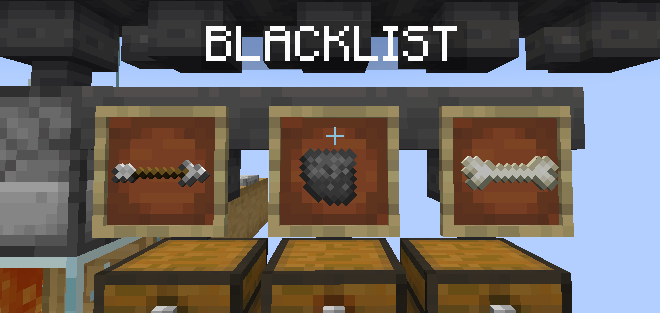
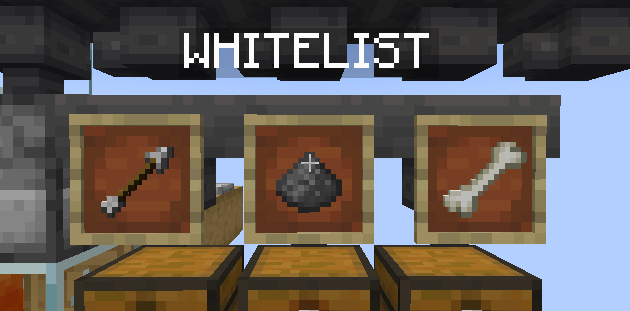
GITBOOK-474: Categoria contas

diff --git a/contas/troca-de-nick.md b/contas/troca-de-nick.md
@@ -1,0 +1,43 @@
+---
+description: >-
+  Mudança de identidade as vezes torna-se necessário, mas atenção as variáveis
+  que podem surgir para que seu progresso não seja mantido em um nick
+  indesejável.
+---
+
+# 🆔 Troca de Nick
+
+## Variáveis
+
+Servidor atualmente atua com 4 diferentes formas, gerando 4 tipos de identificação de contas:
+
+* Java (Original)
+* Java (Pirata)
+* Bedrock
+
+Verifique abaixo, qual caso se enquadra na sua modificação atual e saiba como prosseguir:
+
+| Plataforma origem | Plataforma destino | Ocorre automatico? |
+| ----------------- | ------------------ | ------------------ |
+| Java (Original)   | Java (Original)    | ✅\*                |
+| Bedrock           | Bedrock            | ✅                  |
+| Java (Original)   | Java (Pirata)      | ❌                  |
+| Java (Pirata)     | Java (Original)    | ❌                  |
+| Java (Ambas)      | Bedrock            | ❌                  |
+| Bedrock           | Java (Ambas)       | ❌                  |
+
+## \*Java (Original -> Original)
+
+Possui uma conta original para original e pretende alterar seu nick no minecraft.net, todos dados são transferidos **automaticamente** desde que cumpram os seguintes requisitos:
+
+1. Tenha **certeza** que sua conta está com **/original** ativo, em caso de dúvida utilize o comando em detaque para validação.
+2. Certifique que o nick a ser inserido, não foi registrado por **nenhum** jogador no servidor, do contrário ao alterar seus dados não serão transferidos (Sistema de proteção contra roubo de contas).
+
+## ❌ Não ocorre automaticamente&#x20;
+
+Todas opções que o processo não ocorre automaticamente, caso realmente deseje alterar seu nick, precisará realizar a aquisição do produto [**Troca de Conta**](https://rederevo.com/itens) (categoria outros) para que a equipe possa realizar manualmente a troca de dados entre as contas.&#x20;
+
+{% hint style="warning" %}
+Todos dados serão transferidos em exceção a data de registro que passará a exibir a partir da data de registro da nova conta.
+{% endhint %}
+

diff --git a/outros/equipe.md b/outros/equipe.md
@@ -147,7 +147,7 @@ O **Ajudante** é o responsável pelo auxílio imediato em diversas funções e 
 * <img src="../.gitbook/assets/image (3).png" alt="" data-size="line"> <mark style="color:yellow;">**mac79262**</mark>** (data de entrada: 10/03/2023)**
 * <img src="../.gitbook/assets/image (11).png" alt="" data-size="line"> <mark style="color:yellow;">**FilipePseny**</mark>** (data de entrada: 15/01/2023)**
 * <img src="../.gitbook/assets/image (9).png" alt="" data-size="line"> <mark style="color:yellow;">**Gutothefoda**</mark>** (data de entrada: 20/06/2022)**
-* <img src="../.gitbook/assets/image (1) (1).png" alt="" data-size="line"> <mark style="color:yellow;">**Djinnii1**</mark> **(data de entrada: 10/05/2023)**
+* <img src="../.gitbook/assets/image (1) (1) (1).png" alt="" data-size="line"> <mark style="color:yellow;">**Djinnii1**</mark> **(data de entrada: 10/05/2023)**
 * <img src="../.gitbook/assets/2048 (2) (3).png" alt="" data-size="line"> <mark style="color:yellow;">**HyperMikel**</mark>** (data de entrada: 25/04/2023)**
 * <img src="../.gitbook/assets/image (2) (1).png" alt="" data-size="line"> <mark style="color:yellow;">**Vanesz**</mark>** (data de entrada: 05/08/2023)**
 * <img src="../.gitbook/assets/image (11).png" alt="" data-size="line"> <mark style="color:yellow;">**Minozzo**</mark> **(data de entrada: 05/08/2023)**

diff --git a/survival/melhorias/funil-inteligente.md b/survival/melhorias/funil-inteligente.md
@@ -21,6 +21,6 @@ Este funil possui a capacidade única de transferir exclusivamente o item que es
 
 #### **Exemplo de como criar um funil inteligente:**
 
-<figure><img src="../../.gitbook/assets/image.png" alt=""><figcaption><p>Essa configuração garante que apenas o item exibido na moldura seja transferido pelo funil, proporcionando um método eficiente e organizado de filtragem.</p></figcaption></figure>
+<figure><img src="../../.gitbook/assets/image (1).png" alt=""><figcaption><p>Essa configuração garante que apenas o item exibido na moldura seja transferido pelo funil, proporcionando um método eficiente e organizado de filtragem.</p></figcaption></figure>
 
-<figure><img src="../../.gitbook/assets/image (1).png" alt=""><figcaption><p>Com essa configuração, o funil inteligente irá automaticamente rejeitar o item exibido na moldura, assegurando que todos os outros itens sejam transferidos sem interrupções.</p></figcaption></figure>
+<figure><img src="../../.gitbook/assets/image (1) (1).png" alt=""><figcaption><p>Com essa configuração, o funil inteligente irá automaticamente rejeitar o item exibido na moldura, assegurando que todos os outros itens sejam transferidos sem interrupções.</p></figcaption></figure>

diff --git a/contas/recuperacao.md b/contas/recuperacao.md
@@ -1,0 +1,23 @@
+---
+description: >-
+  Perdeu sua senha? Não se desespere, existem alternativas de recuperação da sua
+  conta, seguiu conforme as recomendações e fez alguma das vinculações? Recupere
+  de forma automática pelo sistema:
+---
+
+# 🔐 Recuperação
+
+
+
+## Vinculadas
+
+* Email: Utilize o comando **/email recover**, um email será enviado com sua nova senha.
+* Discord: Acesse o canal de [#tickets](https://discord.com/channels/793269891557490688/929227946512777216) e vá na categoria **"Esqueci minha senha**" clique em **"Recuperar senha"** uma mensagem com uma nova senha gerada automaticamente será enviada.
+
+## Não vinculadas
+
+Caso não tenha sua conta vinculada em nenhuma forma, você possui uma chance de recuperação utilizando a recuperação manual do nosso [discord](https://discord.com/channels/793269891557490688/929227946512777216), um formulário a ser preenchido será aberto, para uma maior probabilidade de aceitação insira o máximo de informações válidas que se recordar.
+
+{% hint style="warning" %}
+Formulários manuais passam por analise de validação por diversas verificações, não há uma garantia de aceitação, proteja sua conta corretamente.
+{% endhint %}

diff --git a/contas/README.md b/contas/README.md
@@ -1,0 +1,27 @@
+---
+description: Principais informações referente a sua conta dentro do servidor.
+---
+
+# 🧑💼 Contas
+
+## Senha
+
+Em hipótese alguma, compartilhe sua senha, sua conta representa seu esforço, muito cuidado, jogadores podem passar confiança para tentar tomar posse de seus pertences e lembre-se, utilize sempre uma **senha forte**!
+
+## Plataformas
+
+Contas podem exibir os 2 tipos de plataforma (Bedrock e Java) com uma terceira variável entre pirata e original dentro do Java, caso deseje alternar entre o login original e pirata utilize os comandos: /original & /pirata.
+
+## Para mais informações selecione uma das seções abaixo:
+
+{% content-ref url="protecao.md" %}
+[protecao.md](protecao.md)
+{% endcontent-ref %}
+
+{% content-ref url="recuperacao.md" %}
+[recuperacao.md](recuperacao.md)
+{% endcontent-ref %}
+
+{% content-ref url="troca-de-nick.md" %}
+[troca-de-nick.md](troca-de-nick.md)
+{% endcontent-ref %}

diff --git a/contas/protecao.md b/contas/protecao.md
@@ -1,0 +1,19 @@
+---
+description: >-
+  Existem 2 formas que você pode proteger a garantir uma maior segurança em sua
+  conta:
+---
+
+# 🔒 Proteção
+
+## Email
+
+Vincule um email, utilize **/email add (email)** para adicionar um email em sua conta.
+
+* Utilize /email 2fa para adicionar ainda mais segurança, uma nova verificação por email será efetuada sempre que seu IP mudar.
+
+## Discord
+
+Vincule sua conta com nosso [discord](https://discord.com/channels/793269891557490688/932722581222600794) siga os passos do canal **#vincular-conta** e sincronize também automaticamente seu nick e cargo.
+
+<figure><img src="../.gitbook/assets/image.png" alt=""><figcaption></figcaption></figure>

diff --git a/SUMMARY.md b/SUMMARY.md
@@ -6,6 +6,10 @@
   * [🎮 Jogabilidade](regras/jogabilidade.md)
   * [📱 Discord](regras/discord.md)
   * [🚧 MODs e Clients permitidos](regras/mods-e-clients-permitidos.md)
+* [🧑💼 Contas](contas/README.md)
+  * [🔒 Proteção](contas/protecao.md)
+  * [🔐 Recuperação](contas/recuperacao.md)
+  * [🆔 Troca de Nick](contas/troca-de-nick.md)
 
 ## 🌎 GLOBAL
 

diff --git a/ajuda/acesso-ao-servidor/tlauncher/como-entrar-sem-conta-do-tlauncher-no-servidor.md b/ajuda/acesso-ao-servidor/tlauncher/como-entrar-sem-conta-do-tlauncher-no-servidor.md
@@ -10,4 +10,4 @@ coverY: 0
 
 Basta desmarcar a opção "Contas" na área de login.
 
-![](<../../../.gitbook/assets/image (1) (1) (1) (1).png>)
+![](<../../../.gitbook/assets/image (1) (1) (1) (1) (2).png>)
